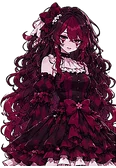
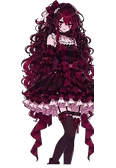
Outfits: remove leftover pieces of neighbouring outfits (casual, gothic, kimono, maid, street, winter, pajamas)
Claude-Session: https://claude.ai/code/session_01WGxcBkyYwxg5pKWxF7e3SB

diff --git a/index.html b/index.html
@@ -445,7 +445,7 @@ nav button svg{display:none}
           <div class="mirTag">WARDROBE</div>
           <div class="mirIn">
             <div class="mirShadow"></div>
-            <img id="look0" class="look on" alt="Cerise, full body" src="img/outfits/jester.webp?v=20261127225748">
+            <img id="look0" class="look on" alt="Cerise, full body" src="img/outfits/jester.webp?v=20261127225953">
             <img id="look1" class="look" alt="">
             <div class="mirFlash" id="mirFlash"></div>
           </div>
@@ -555,7 +555,7 @@ nav button svg{display:none}
       </div>
       <div class="group"><h3>What she remembers</h3><div id="memList"></div></div>
       <button class="btn ghost" id="s-clear" type="button">Clear chat history</button>
-      <p style="color:var(--mute);font-size:12px;text-align:center;margin-top:18px">Cerise build 20261127225748 · settings save automatically</p>
+      <p style="color:var(--mute);font-size:12px;text-align:center;margin-top:18px">Cerise build 20261127225953 · settings save automatically</p>
     </div></section>
   </main>
   <nav>
@@ -577,7 +577,7 @@ const VAR = { neutral:['F01'], cold:['F26','F19'], sad:['F22','F05'], bored:['F1
   pout:['F08','F11'], flustered:['F08','F29'], shy:['F29','F11'], love:['F17','F25'], excited:['F24'], cry:['F18'], teary:['F05'], sleepy:['F28'], sleeping:['F09'],
   blank:['F30'], dark:['F20','F23'], sick:['F27'] };
 const MOODS = Object.keys(VAR);
-const VER = '20261127225748';
+const VER = '20261127225953';
 // her wardrobe (Her tab): she changes outfit to fit what you talk about
 const OUTFITS = [
   { id: 'jester', name: 'The Crimson Jester', short: 'Jester', sub: 'Her signature',
